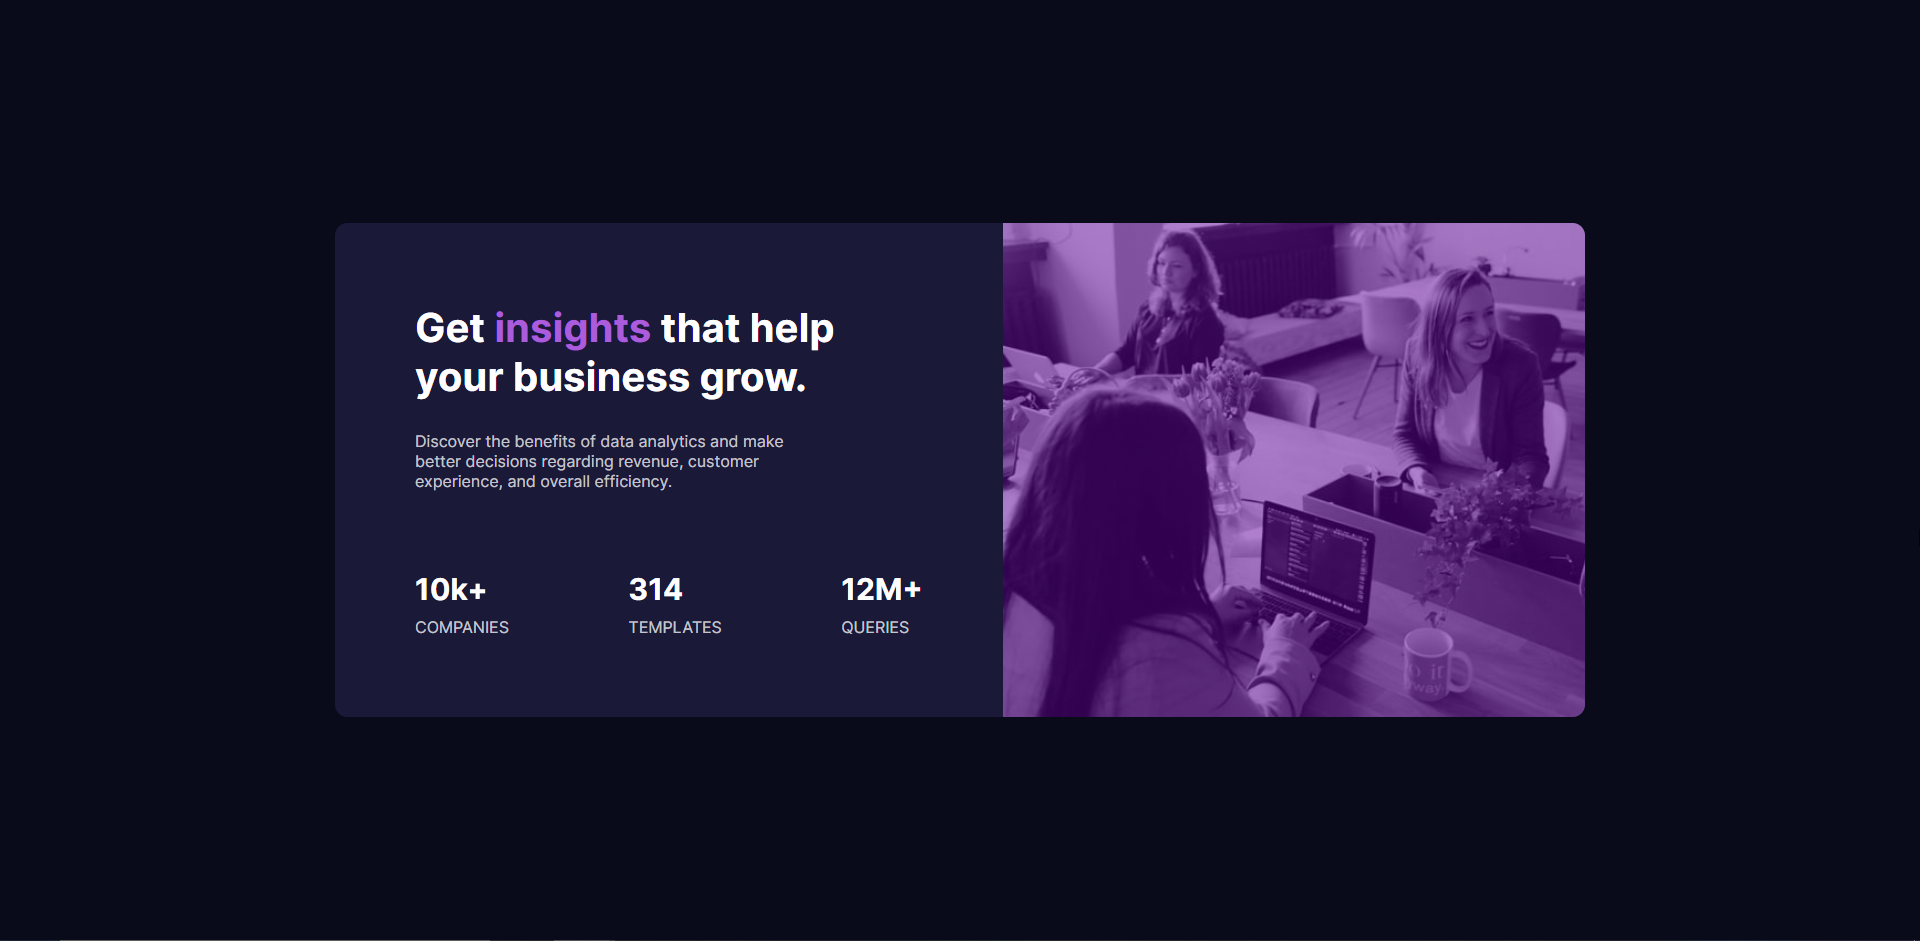
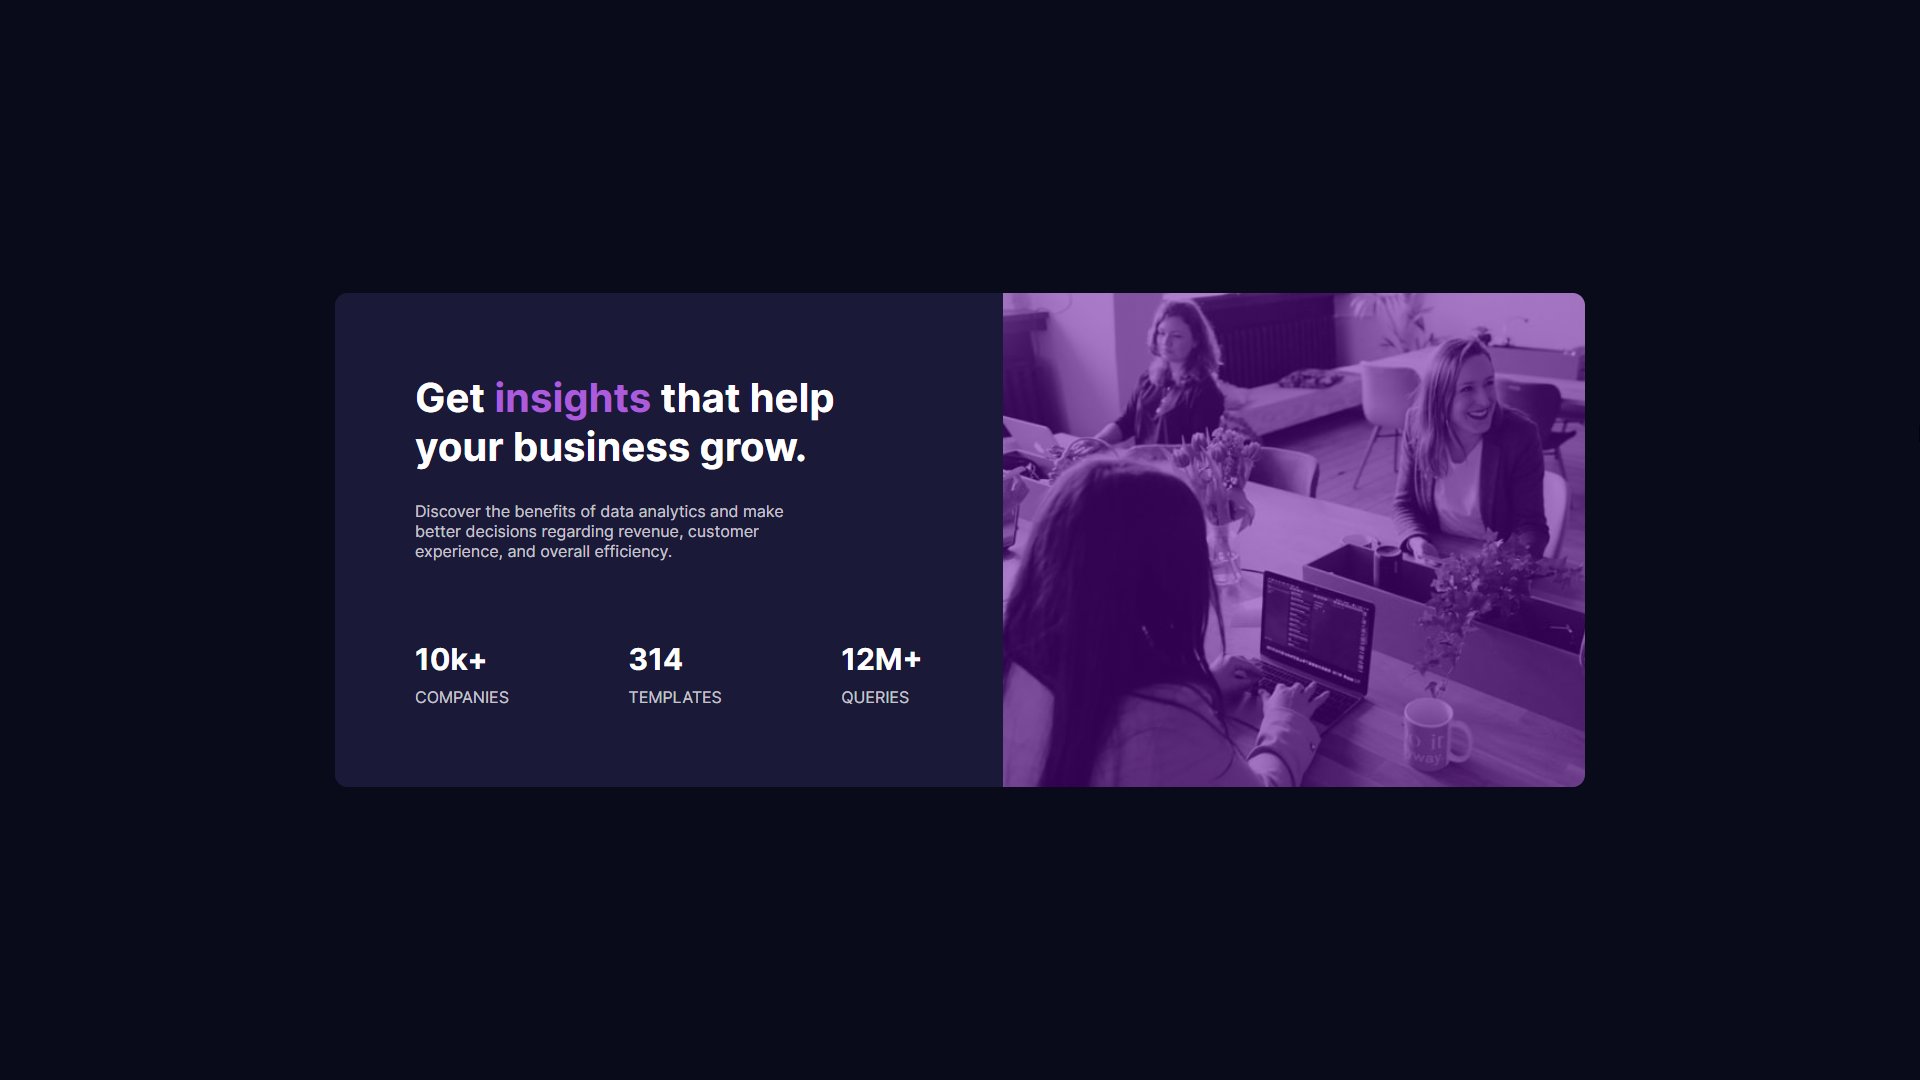
Changed screenshot.png for bigger one, changed links section in README.md(added hyperlinks to solution and live website pages)

diff --git a/README.md b/README.md
@@ -27,8 +27,8 @@ Users should be able to:
 
 ### Links
 
-- Solution URL: [Add solution URL here](https://your-solution-url.com)
-- Live Site URL: [Add live site URL here](https://your-live-site-url.com)
+- [Solution](https://www.frontendmentor.io/challenges/stats-preview-card-component-8JqbgoU62/hub/responsive-stats-card-using-html5-sass-and-bem-methodology-7h2GBEldm)
+- [Live Site](https://codeline0.github.io/Stats-Preview-Card/)
 
 ## My process
 
